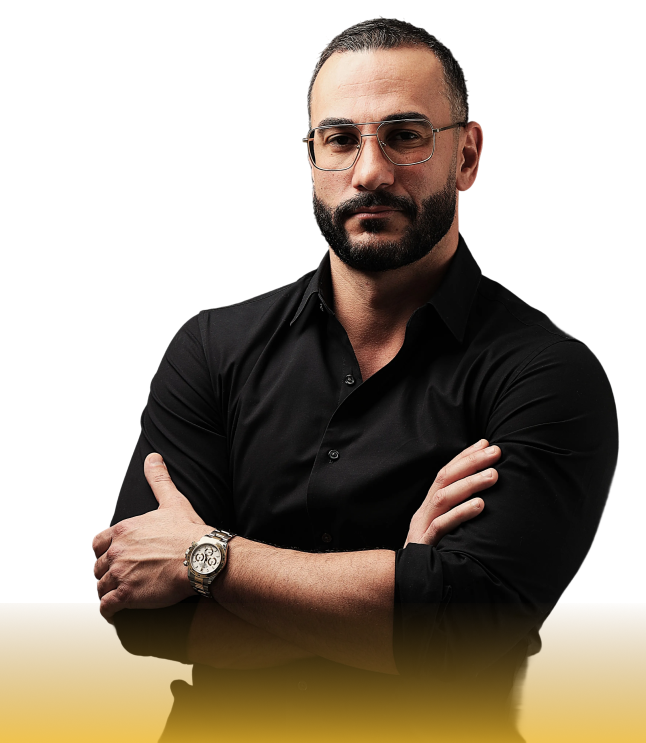
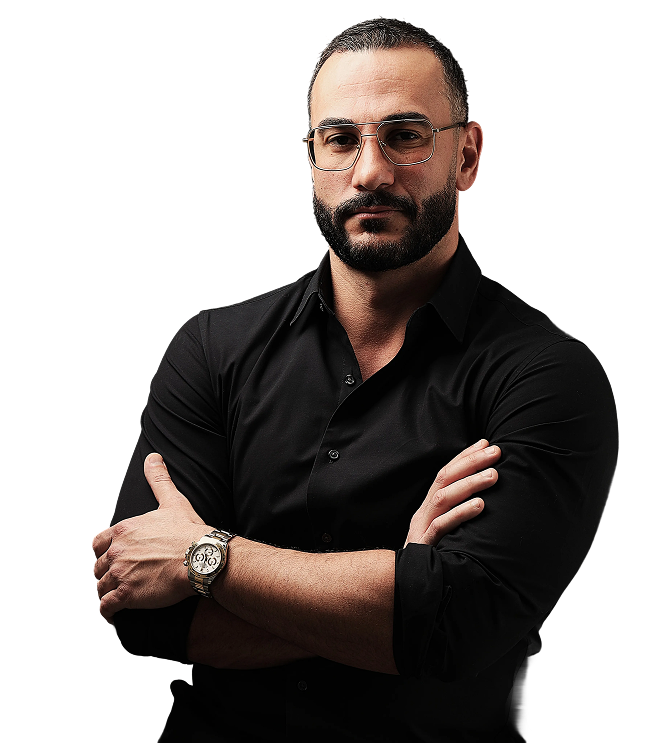
changes

diff --git a/components/hero.tsx b/components/hero.tsx
@@ -4,14 +4,15 @@ import Image from "next/image";
 
 export default function HeroSection() {
   return (
-    <section className="relative w-full bg-[#0f0f0f] text-white overflow-hidden">
+    <section className="relative w-full text-white overflow-hidden min-h-[750px] lg:min-h-[900px]">
+      
       {/* MAIN CONTENT */}
-      <div className="max-w-7xl mx-auto px-4 lg:px-8 py-16 lg:py-24 relative z-20">
-        <div className="grid grid-cols-1 lg:grid-cols-2 gap-12 items-center">
-          
+      <div className="max-w-7xl mx-auto px-8 lg:px-12 py-24 lg:py-32 mt-30 relative z-20">
+        <div className="grid grid-cols-1 lg:grid-cols-2 gap-2 items-center">
+
           {/* LEFT CONTENT */}
-          <div className="space-y-6">
-            <h1 className="text-3xl sm:text-4xl lg:text-5xl font-bold leading-tight">
+          <div className="space-y-10">
+            <h1 className="text-2xl sm:text-3xl lg:text-5xl font-bold leading-tight">
               BECOME A HIGH-PERFORMING DUBAI <br />
               <span className="text-[#E3A721]">REAL ESTATE AGENT IN 90 DAYS</span>
             </h1>
@@ -21,61 +22,60 @@ export default function HeroSection() {
               and a strong pipeline they can rely on.
             </p>
 
-            <button
-              className="
-                px-6 py-3 rounded-full text-sm font-medium
-                bg-gradient-to-r from-[#E3A721] to-[#FFCC47]
-                text-black shadow-md hover:opacity-90 transition-all
-              "
-            >
-              Book Your Performance Strategy Session
-            </button>
+<button
+  className="
+    px-10 py-4 rounded-full text-base font-semibold
+    bg-gradient-to-r from-[#E3A721] to-[#FFCC47]
+    text-black shadow-md hover:brightness-110 transition-all
+  "
+>
+  Book Your Performance Strategy Session
+</button>
+
           </div>
 
-          {/* RIGHT IMAGE (MAN) */}
-          {/* RIGHT IMAGE (MAN) */}
-<div className="relative w-full flex justify-center lg:justify-end overflow-visible">
-  <Image
-    src="/Ali1.png"
-    alt="Mentor"
-    width={650}
-    height={900}
-    priority
-    className="
-      object-contain 
-      z-30 
-      lg:-mb-32     /* Pull image down to touch yellow strip */
-      -mb-20        /* Mobile version */
-    "
-  />
-</div>
+          {/* RIGHT IMAGE */}
+          <div className="relative w-full flex justify-center scale-110 lg:justify-end overflow-visible">
+            <Image
+              src="/Ali1.png"
+              alt="Mentor"
+              width={760}
+              height={1100}
+              priority
+              className="
+                object-contain 
+                z-30 
+                lg:-mb-70
+                -mb-55
+              "
+            />
+          </div>
 
         </div>
       </div>
 
-      {/* SKYLINE BACKGROUND (BOTTOM FADE) */}
-      <div className="absolute bottom-24 left-0 w-full z-10">
+      {/* SKYLINE BACKGROUND */}
+      <div className="absolute bottom-36 left-0 w-full z-10">
         <Image
-          src="/herobg.png" // ← Replace with actual skyline image
+          src="/herobg.png"
           alt="Dubai Skyline"
           width={1600}
-          height={400}
+          height={800}
           className="w-full object-cover opacity-80"
         />
       </div>
 
       {/* ORANGE-GOLD BOTTOM STRIP */}
-      <div className="w-full bg-[#E3A721] py-6 px-4 lg:px-8">
+      <div className="w-full bg-[#E3A721] py-8 mt-12 px-4 lg:px-8">
         <div className="max-w-7xl mx-auto">
-          <p className="text-black text-sm sm:text-base font-medium leading-relaxed">
-            Clarity, structure, and performance coaching designed<br />
-            to help you close more deals with better clients
-          </p>
+<p className="text-black text-2xl sm:text-xl italic font-medium leading-relaxed">
+  Clarity, structure, and performance coaching designed<br />
+  to help you close more deals with better clients
+</p>
+
         </div>
       </div>
 
-      {/* DARK FADE OVERLAY */}
-      <div className="absolute inset-0 bg-yellow pointer-events-none"></div>
     </section>
   );
 }

diff --git a/components/About.tsx b/components/About.tsx
@@ -53,7 +53,7 @@ const reasons = [
 
 export default function WhyDubaiAgentsFail() {
   return (
-    <section className="w-full bg-[#0B0B0B] py-20 px-4">
+    <section className="w-full bg-[#0B0B0B] py-20 mt-20 px-2">
       <div className="max-w-6xl mx-auto text-center">
         {/* Heading */}
         <h2 className="text-white text-3xl md:text-4xl font-extrabold leading-snug mb-12">
@@ -63,22 +63,30 @@ export default function WhyDubaiAgentsFail() {
         </h2>
 
         {/* GRID */}
-        <div className="grid grid-cols-1 md:grid-cols-3 gap-6">
+        <div className="grid grid-cols-1 md:grid-cols-3 gap-4">
           {reasons.map((item, index) => {
             const Icon = item.icon;
             return (
-              <div
-                key={index}
-                className="
-                  bg-[#1A1A1A] rounded-xl px-6 py-5
-                  flex items-center gap-4
-                "
-              >
-                <Icon className="text-[#F8C133] text-2xl" />
-                <p className="text-white text-sm font-medium leading-snug whitespace-pre-line">
-                  {item.text}
-                </p>
-              </div>
+         <div
+  key={index}
+  className="
+    bg-[#1A1A1A] rounded-xl px-8 py-7
+    flex items-right gap-10
+  "
+>
+  {/* ICON CONTAINER */}
+  <div className="bg-[#000000] rounded-lg p-1 flex items-center justify-center w-12 h-12">
+    <Icon className="text-[#F8C133] text-2xl" />
+  </div>
+
+  {/* TEXT */}
+<p className="text-white text-base font-medium leading-snug">
+
+    {item.text}
+  </p>
+</div>
+
+
             );
           })}
         </div>
